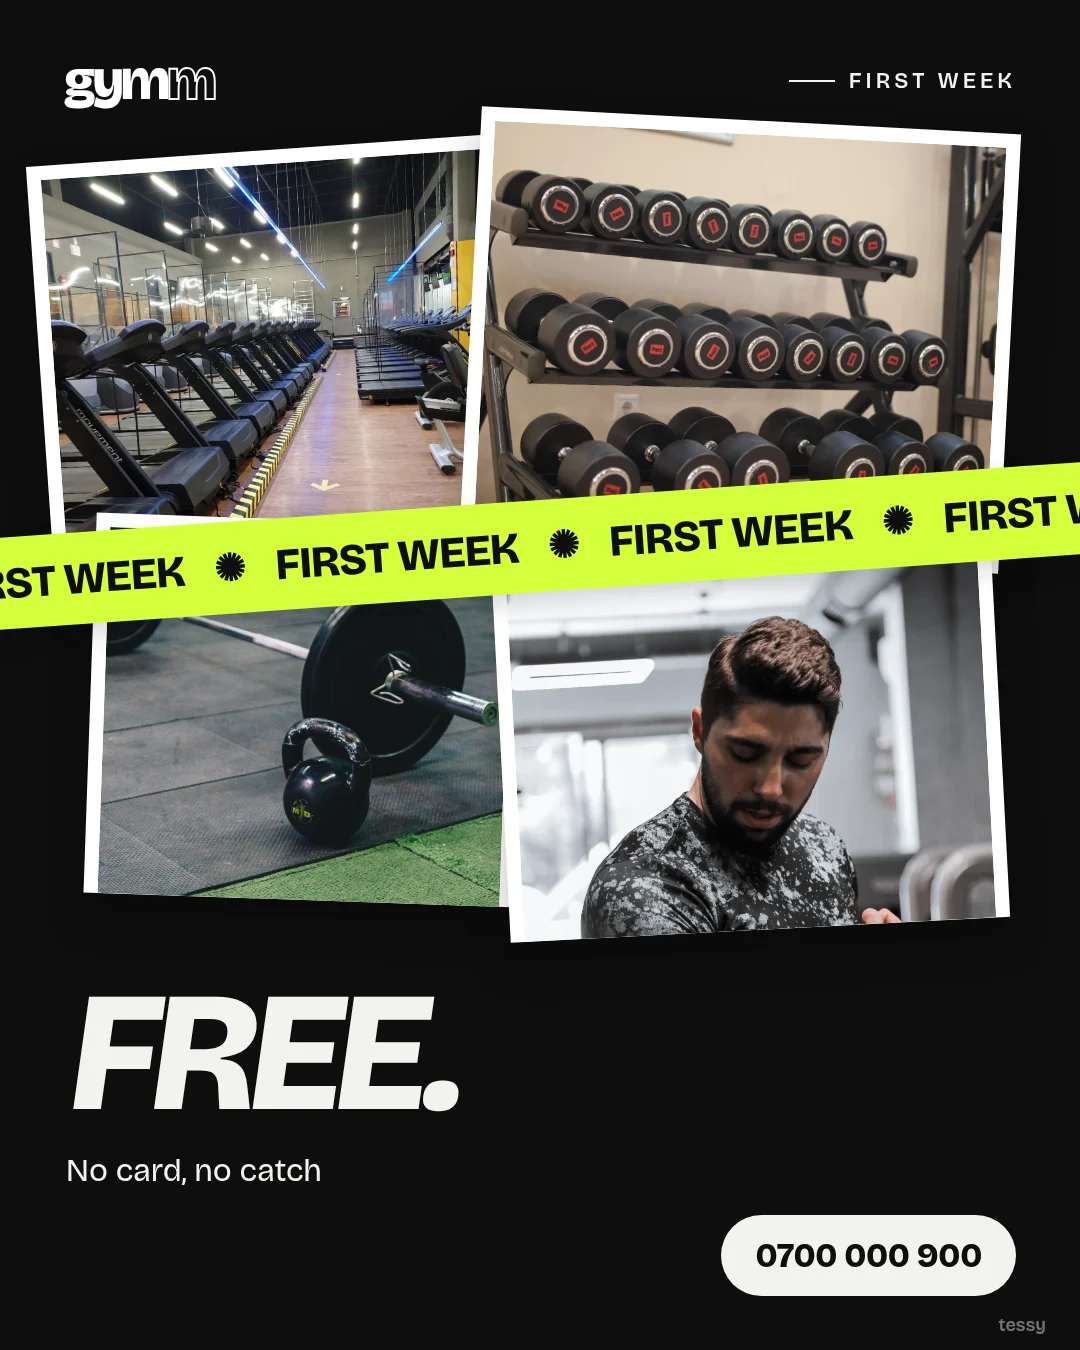
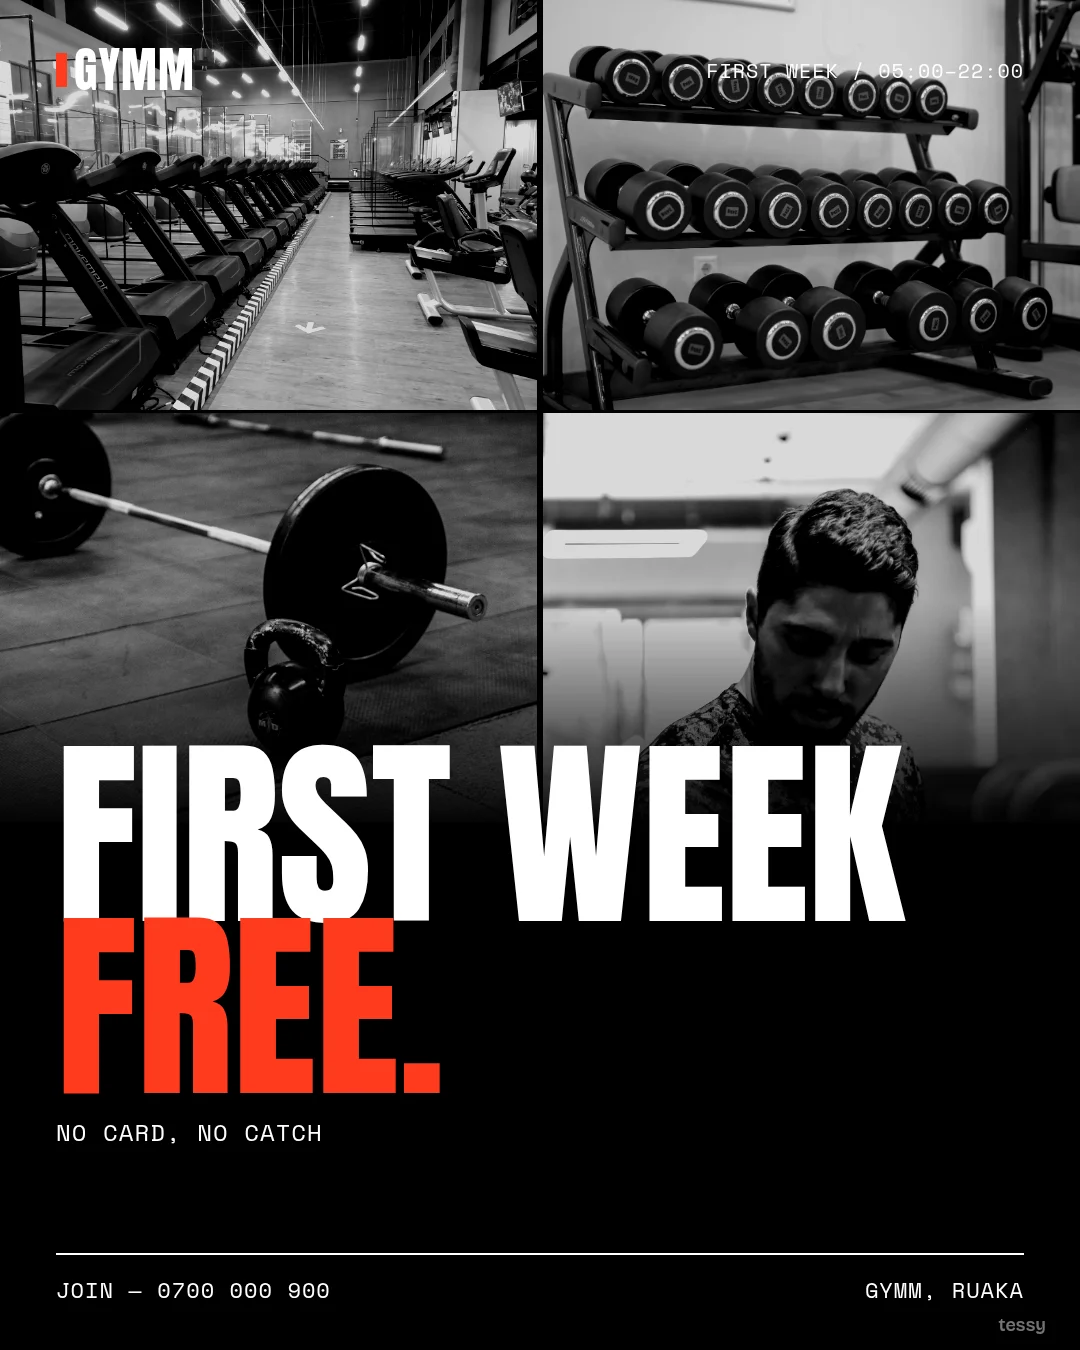
gymm: raw black-and-white training flyers instead of black and lime

diff --git a/src/data.js b/src/data.js
@@ -476,8 +476,8 @@ export const AD_CAMPAIGNS = [
     icon: "dumbbell",
     sector: "Gym · Nairobi",
     brief: "What it costs and when it's open, loud and clear.",
-    voice: "Black, off-white and lime.",
-    palette: ["#F2F2EE", "#0E0E0E", "#D4FF3A", "#FFFFFF"],
+    voice: "Black-and-white photos, condensed capitals, one red-orange.",
+    palette: ["#000000", "#FFFFFF", "#FF3B1F", "#999999"],
     cover: "01-no-joining-fee",
     pieces: [
       ["01-no-joining-fee", "No joining fee in November", "Feed 4:5"],
